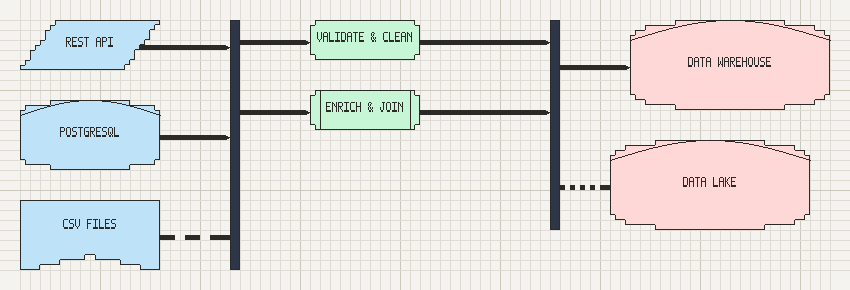
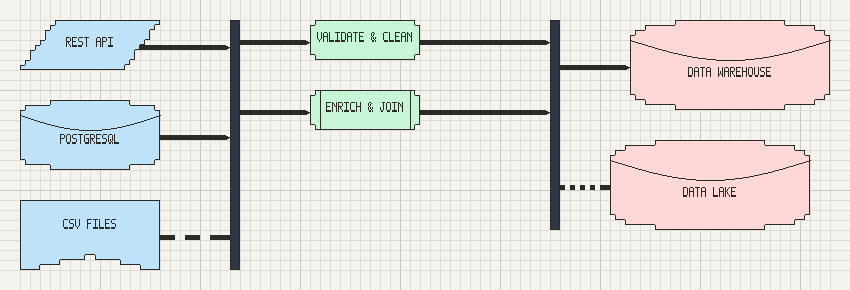
Draw a cylinder's back edge the right way round
This is the defect that actually made every `data` node look melted, and
the previous commit did not touch it.

The back edge is the FAR side of the top ellipse, so it curves DOWN into
the body. The PNG renderer computed it as `cap - sin(t) * cap`, which
curves up and retraces the silhouette: two stacked upward arcs with a
gap between them, which is exactly the lumpy double-bump that started
this. The SVG had it right the whole time — its arc carries sweep flag 0
— so the two renderers were drawing different symbols from one document.
One character, `-` to `+`.

The superellipse experiment from the previous attempt is reverted. The
cap exponent was never the problem; an ellipse is correct here, and the
constant stays at 2.0 with the reasoning recorded rather than a silently
changed shape language.

Drawing the back edge correctly then exposed a second fault: the label
aperture reserved one cap at the top while the ink reaches two, so every
cylinder had its own back edge struck through its label. `data` now
reserves 2 x cap above and 1 x cap below — the insets are asymmetric
because the foot only inks one cap — and `measure` reports a span that
accounts for it, so a caller sizing from measurement gets a box the
label actually fits in.

No new overflow findings across the corpus and the release gate still
passes, so nothing was relying on the old, wrong aperture.

diff --git a/src/core/shapes.js b/src/core/shapes.js
@@ -144,6 +144,21 @@ export function containerClaimQuads(r) {
 /** Shapes whose slant or curve is a fixed fraction of the bounding box. */
 const SKEW = 0.25;
 const CAP = 0.18;
+
+/**
+ * The cap is a SUPERELLIPSE, not a true ellipse.
+ *
+ * A true ellipse (exponent 2) is almost vertical where it meets the side wall, so on a
+ * lattice its first row cuts an enormous bite and the rest barely move: a 40-quadrant-wide
+ * cylinder with a 4-quadrant cap stepped 9, 3, 1. That reads as a shoulder with a dent in
+ * it, not as a curve — the defect that made every wide `data` node look broken.
+ *
+ * Lowering the exponent trades the flat middle for even steps. The cap is only ever a few
+ * quadrants deep, so what matters is not fidelity to an ellipse but that consecutive rows
+ * differ by a similar amount; a curve the lattice can actually state beats a curve it has
+ * to round into a notch.
+ */
+const CAP_EXPONENT = 2.0;
 /** How much of a bar's height the bar itself occupies. */
 const BAR_THICKNESS = 0.34;
 
@@ -329,7 +344,7 @@ function insideShape(i, j, w, h, shape) {
     case 'data': {
       if (v > CAP && v < 1 - CAP) return true;
       const cv = v <= CAP ? CAP : 1 - CAP;
-      return du ** 2 + ((v - cv) / CAP) ** 2 <= 1;
+      return du ** CAP_EXPONENT + Math.abs((v - cv) / CAP) ** CAP_EXPONENT <= 1;
     }
     case 'bar':
       // A fork/join bar is a THIN solid bar, not a box. Drawn as a full
@@ -411,8 +426,16 @@ export function shapeTextRect(r, shape = 'process') {
     case 'manual':
     case 'prep':
       return inset(Math.ceil(r.w * SKEW), 0);
-    case 'data':
-      return inset(0, Math.ceil(r.h * CAP));
+    case 'data': {
+      // A cylinder inks TWICE its cap at the top: the rim curves up to the box edge, and
+      // the back edge of that same ellipse curves down an equal distance into the body.
+      // Reserving only one cap put every label across the back edge — visible as a line
+      // struck through the text of every `data` node once the back edge was drawn the
+      // right way round. The foot only inks one cap, so the insets are not symmetric.
+      const cap = capQuads(r.h);
+      const top = Math.min(2 * cap, Math.max(0, r.h - cap - 1));
+      return rect(r.x, r.y + top, r.w, Math.max(1, r.h - top - cap));
+    }
     case 'document':
       return rect(r.x, r.y, r.w, Math.max(1, r.h - Math.ceil(r.h * CAP)));
     case 'subprocess':

diff --git a/src/core/output.js b/src/core/output.js
@@ -284,7 +284,11 @@ function drawCellShape(layer, width, height, element, ox, oy, fill, stroke) {
     const cap = Math.max(1, capQuads(r.h) * PX_PER_QUAD);
     let previous = null;
     for (let i = 0; i <= w; i++) {
-      const point = { x: x + i, y: Math.round(y + cap - Math.sin((i / Math.max(1, w)) * Math.PI) * cap) };
+      // The back edge is the FAR side of the top ellipse, so it bulges DOWN into the
+      // body. This was `- sin`, which bulged up and traced the silhouette instead:
+      // two stacked upward curves, which is what made every cylinder look melted.
+      // The SVG had it right all along — its arc carries sweep flag 0.
+      const point = { x: x + i, y: Math.round(y + cap + Math.sin((i / Math.max(1, w)) * Math.PI) * cap) };
       if (previous) thickLine(layer, width, height, previous, point, stroke);
       previous = point;
     }
